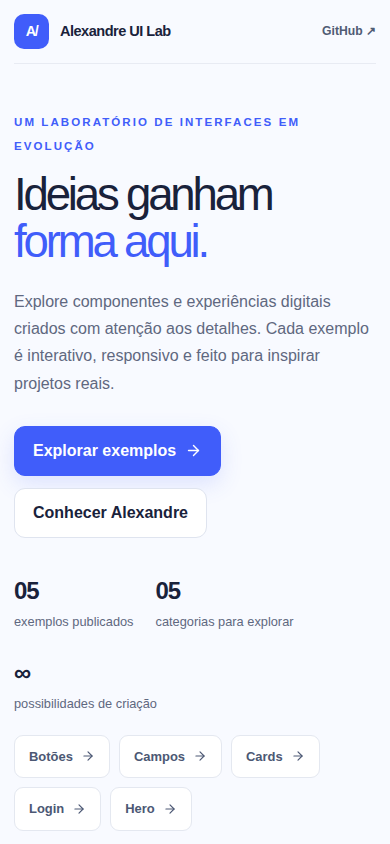
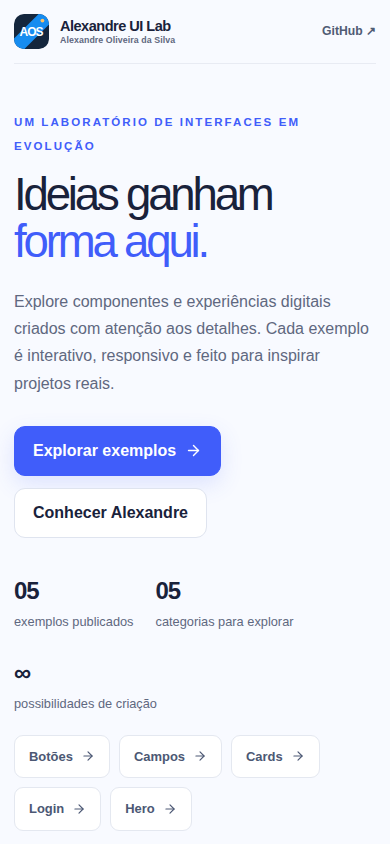
feat: apply AOS identity across UI Lab

Changed region(s): [[0.1538, 0.0, 0.4615, 0.0616], [0.0308, 0.0, 0.1231, 0.0616]]

diff --git a/src/app/layout.tsx b/src/app/layout.tsx
@@ -1,15 +1,17 @@
 import type { Metadata } from "next";
 import Link from "next/link";
+import Image from "next/image";
 import "./globals.css";
 
 export const metadata: Metadata = {
   metadataBase: new URL("https://ui.alexandresilva.dev"),
   title: { default: "Alexandre UI Lab", template: "%s | Alexandre UI Lab" },
   description: "Uma coleção viva de componentes e interfaces interativas criadas por Alexandre Oliveira da Silva.",
+  authors: [{ name: "Alexandre Oliveira da Silva" }],
   openGraph: { title: "Alexandre UI Lab", description: "Componentes e interfaces para explorar, testar e imaginar possibilidades.", url: "https://ui.alexandresilva.dev", siteName: "Alexandre UI Lab", type: "website", locale: "pt_BR" },
   robots: { index: true, follow: true },
 };
 
 export default function RootLayout({ children }: Readonly<{ children: React.ReactNode }>) {
-  return <html lang="pt-BR" data-scroll-behavior="smooth"><body><div className="shell"><header className="site-header"><Link href="/" className="brand" aria-label="Alexandre UI Lab, início"><span className="brand-mark">A/</span> Alexandre UI Lab</Link><nav aria-label="Navegação principal"><Link href="/#catalogo">Explorar catálogo</Link><a href="https://alexandresilva.dev" target="_blank" rel="noopener noreferrer">Portfólio ↗</a><a href="https://github.com/Alexandre458/alexandre-ui-lab" target="_blank" rel="noopener noreferrer">GitHub ↗</a></nav></header></div><main>{children}</main><div className="shell"><footer className="site-footer"><span>© {new Date().getFullYear()} Alexandre UI Lab. Feito para explorar ideias reais.</span><span>Uma criação de Alexandre Oliveira da Silva</span></footer></div></body></html>;
+  return <html lang="pt-BR" data-scroll-behavior="smooth"><body><div className="shell"><header className="site-header"><Link href="/" className="brand" aria-label="Alexandre UI Lab, início"><Image className="brand-mark" src="/brand-mark.svg" alt="" width={35} height={35} /><span className="brand-copy"><strong>Alexandre UI Lab</strong><small>Alexandre Oliveira da Silva</small></span></Link><nav aria-label="Navegação principal"><Link href="/#catalogo">Explorar catálogo</Link><a href="https://alexandresilva.dev" target="_blank" rel="noopener noreferrer">Portfólio ↗</a><a href="https://github.com/Alexandre458/alexandre-ui-lab" target="_blank" rel="noopener noreferrer">GitHub ↗</a></nav></header></div><main>{children}</main><div className="shell"><footer className="site-footer"><span>© {new Date().getFullYear()} Alexandre UI Lab. Feito para explorar ideias reais.</span><span>Uma criação de Alexandre Oliveira da Silva</span></footer></div></body></html>;
 }

diff --git a/tests/e2e/catalog.spec.ts b/tests/e2e/catalog.spec.ts
@@ -60,3 +60,14 @@ test("não há overflow horizontal na home e no detalhe", async ({ page }) => {
     expect(hasOverflow, `${route} transbordou`).toBe(false);
   }
 });
+
+test("marca AOS e favicon carregam em todos os tamanhos", async ({ page, request }) => {
+  await page.goto("/");
+  await expect(page.locator(".site-header .brand img")).toBeVisible();
+  const icon = page.locator('link[rel="icon"][href*="icon.svg"]');
+  await expect(icon).toHaveCount(1);
+  const href = await icon.getAttribute("href");
+  const response = await request.get(new URL(href!, page.url()).toString());
+  expect(response.status()).toBe(200);
+  expect(await response.text()).toContain("AOS");
+});

diff --git a/src/app/globals.css b/src/app/globals.css
@@ -53,3 +53,5 @@ a { color:inherit; text-decoration:none; }
 @media(prefers-reduced-motion:reduce) { *,*::before,*::after {scroll-behavior:auto!important;transition:none!important;animation:none!important;} }
 body:has(.demo-stage) > .shell {display:none;}
 body:has(.demo-stage) {background:#fff;}
+
+.brand-mark{display:block;flex:none;background:transparent}.brand-copy{display:grid;gap:2px;line-height:1.1}.brand-copy small{font-size:.63rem;font-weight:600;letter-spacing:.01em;color:var(--muted)}@media(max-width:560px){.brand-copy small{font-size:.55rem}}

diff --git a/docs/ARCHITECTURE.md b/docs/ARCHITECTURE.md
@@ -11,6 +11,8 @@ O Registry é uma lista de objetos tipados em `src/registry/entries.ts`. Busca e
 - `/[category]/[slug]/`: detalhe com controles de viewport e informação técnica secundária.
 - `/preview/[category]/[slug]/`: interface real, também aberta em tela cheia.
 
+O cabeçalho usa o símbolo AOS e credita Alexandre Oliveira da Silva. `src/app/icon.svg`, `favicon.ico` e `apple-icon.png` usam a mesma marca do site principal e dos cinco sistemas do portfólio. As cópias ficam neste repositório independente; o build não lê arquivos dos demais projetos.
+
 Todas as rotas dinâmicas usam `generateStaticParams`. `next build` exporta HTML, CSS e JS para `out/`. O site não usa runtime de API, cookies, Server Actions nem dados por requisição. Se uma demo futura precisar dessas capacidades, reavalie esta arquitetura antes de implementá-la.
 
 ## Isolamento e bundle

diff --git a/README.md b/README.md
@@ -4,6 +4,8 @@
 
 <h1 align="center">Alexandre UI Lab</h1>
 
+<p align="center">Uma criação de <strong>Alexandre Oliveira da Silva</strong>, com a marca AOS compartilhada pelos projetos do portfólio.</p>
+
 <p align="center">
   <strong>Ideias ganham forma aqui.</strong><br>
   Um catálogo de interfaces para explorar, testar e adaptar a projetos reais.
